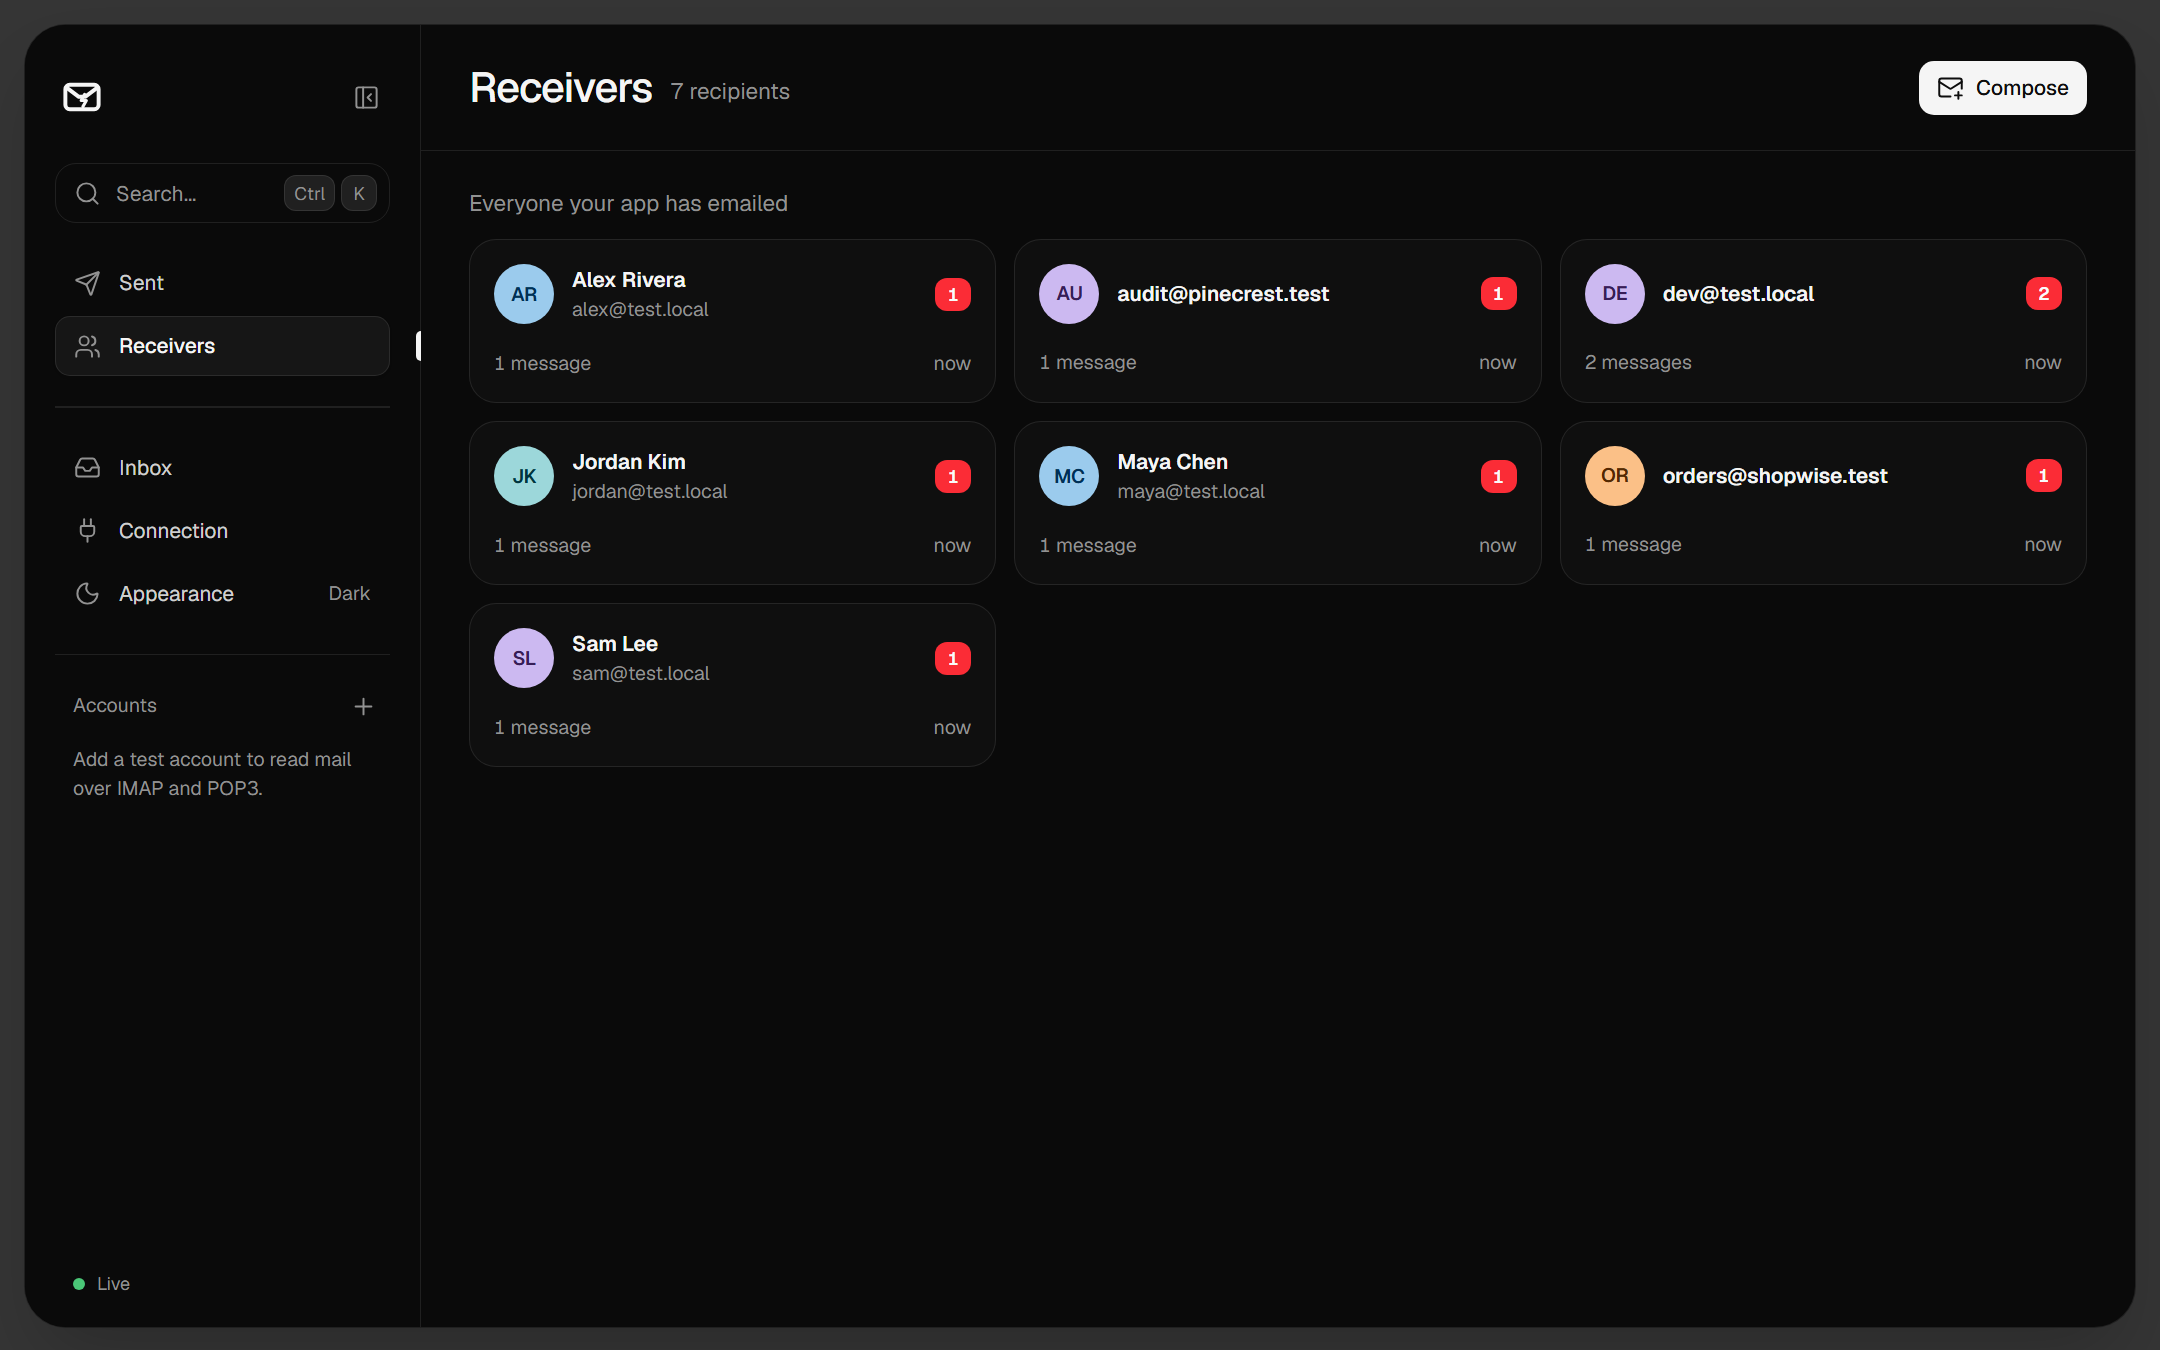
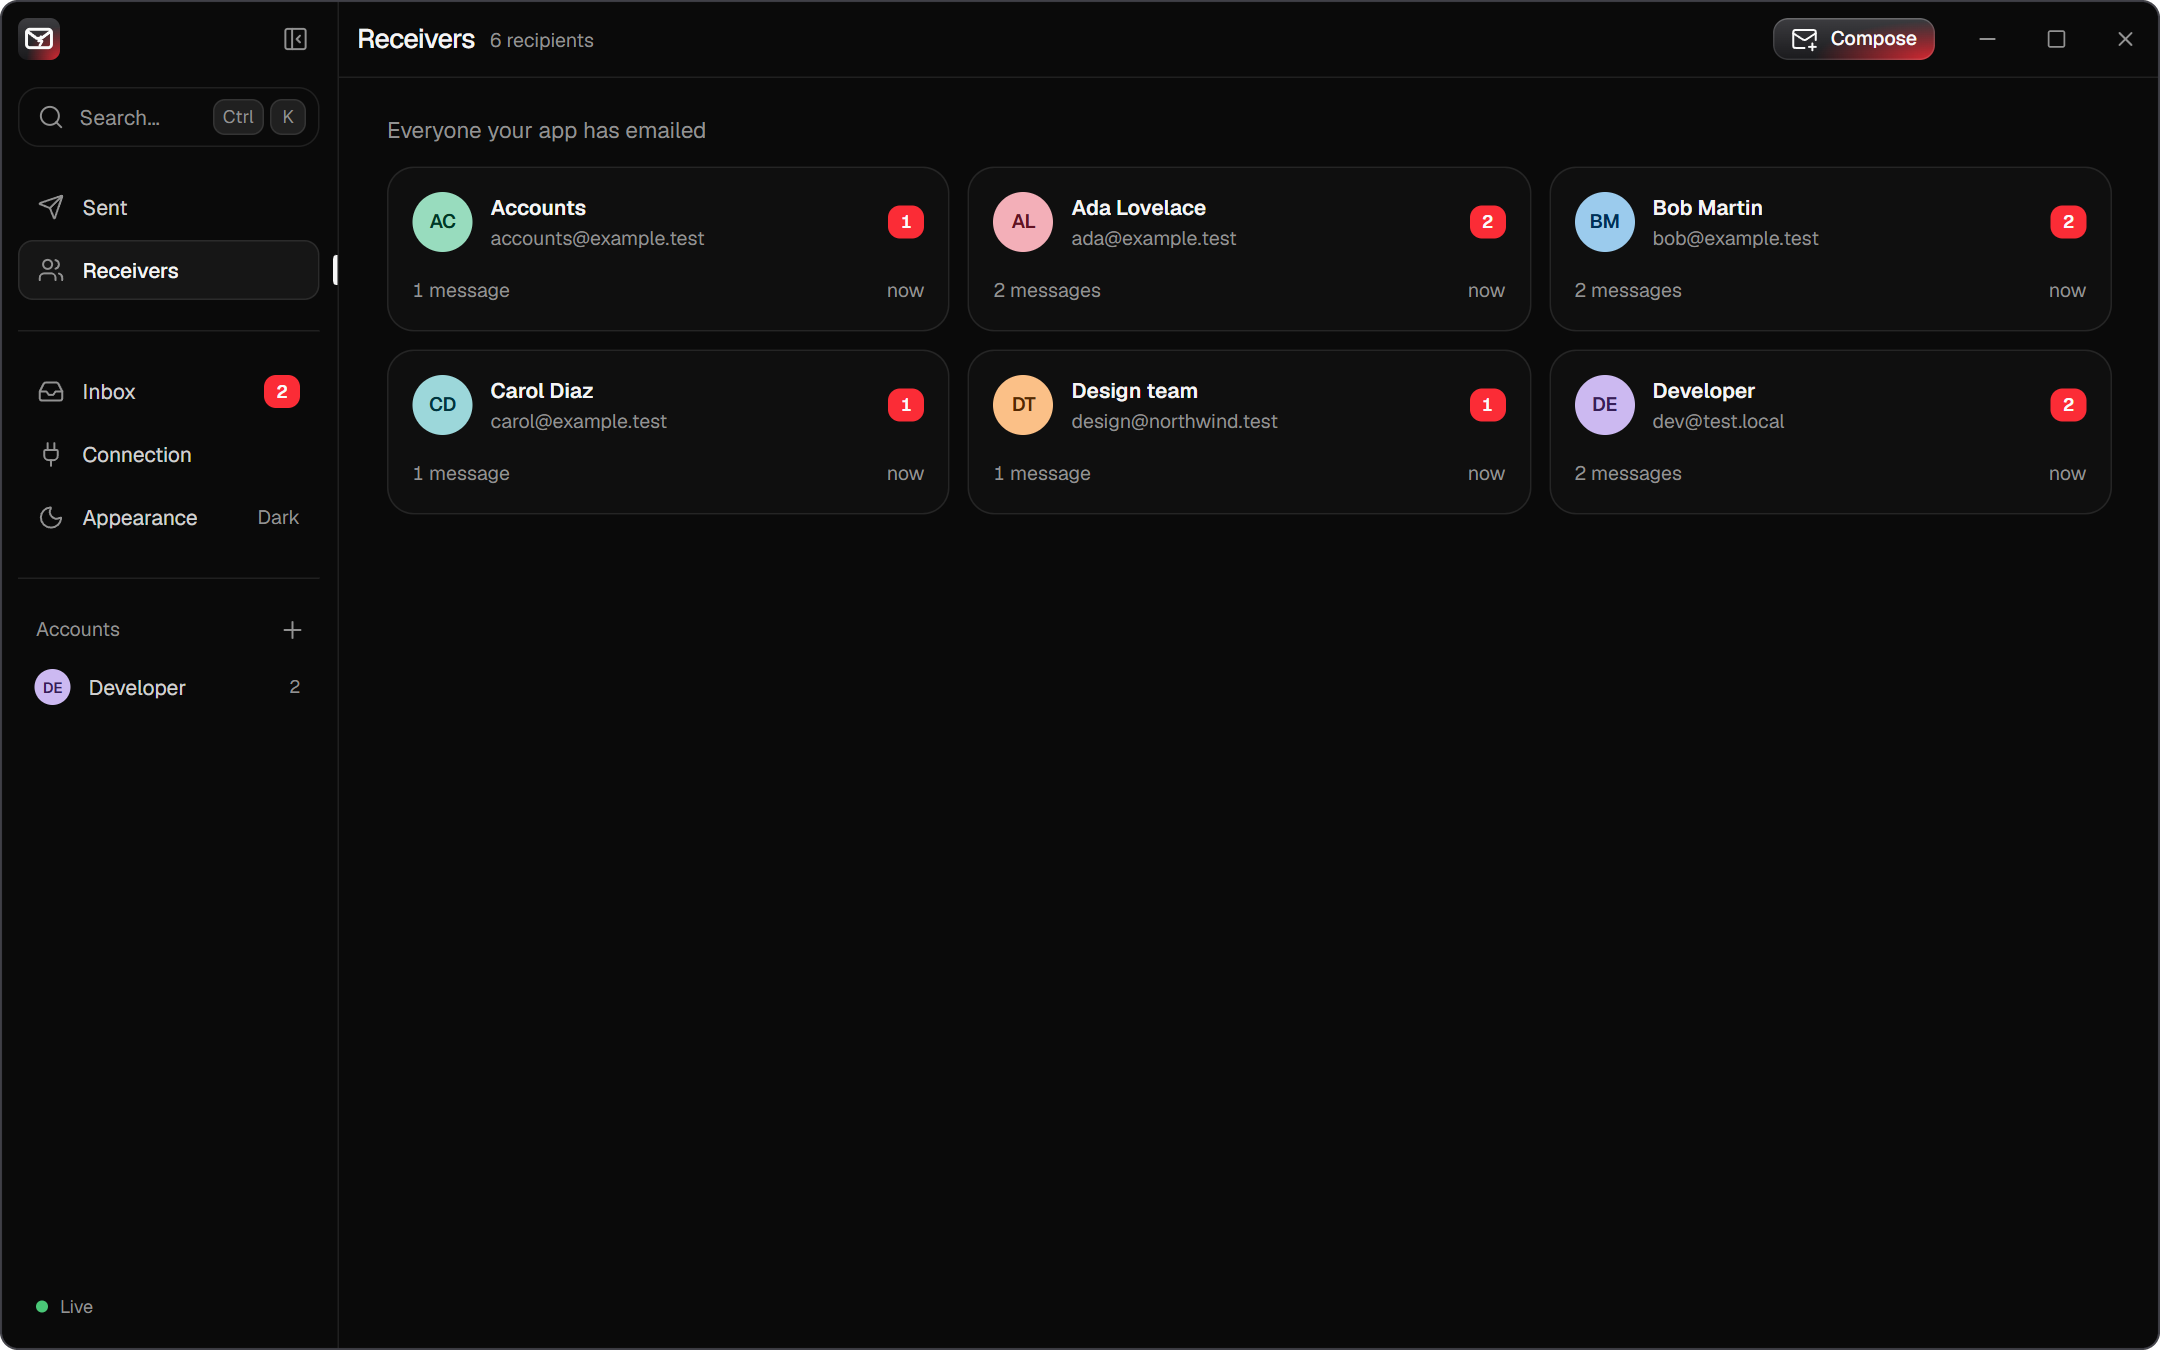
Rewrite the README around the desktop app
Envry is now introduced as a desktop app for Windows, macOS and Linux,
with download links and install notes per platform first, and the
command-line server for CI and servers after it. New screenshots show the
app in dark and light themes, Receivers, Compose and Connection.

diff --git a/README.md b/README.md
@@ -1,38 +1,60 @@
-# Envry
+<p align="center">
+  <img src="desktop/src-tauri/icons/128x128.png" width="96" height="96" alt="Envry app icon">
+</p>
 
-Envry is a local email testing server. It captures every email your application sends over SMTP, gives each recipient a mailbox, and serves those mailboxes back over POP3, IMAP, a REST API and a web UI. Nothing is ever relayed to the internet.
+<h1 align="center">Envry</h1>
 
-![Envry's Sent view with an HTML email open in the reader](docs/images/sent.png)
+<p align="center">
+  A desktop app for testing email locally, on Windows, macOS and Linux.<br>
+  It catches every email your app sends, gives each recipient a mailbox, and serves them back over IMAP, POP3 and a REST API.<br>
+  Nothing is ever delivered to the internet.
+</p>
 
-> **Status:** early development; expect breaking changes before 1.0. SMTP capture, POP3, IMAP (all with optional TLS), the web UI, the REST API, message checks and failure simulation work today.
+<p align="center">
+  <a href="https://github.com/arifurrahmanns/envry/releases/latest/download/Envry-setup-windows-x64.exe"><b>Windows</b></a> ·
+  <a href="https://github.com/arifurrahmanns/envry/releases/latest/download/Envry-macos-universal.dmg"><b>macOS</b></a> ·
+  <a href="https://github.com/arifurrahmanns/envry/releases/latest/download/Envry-linux-x86_64.AppImage"><b>Linux</b></a> ·
+  <a href="https://github.com/arifurrahmanns/envry/releases/latest">All downloads</a>
+</p>
+
+![Envry on Windows: the Sent list with an HTML email open in the reader](docs/images/app-dark.png)
+
+> **Status:** early development; expect breaking changes before 1.0. SMTP capture, POP3, IMAP (all with optional TLS), the desktop app, the REST API, message checks and failure simulation work today.
 
 ## Features
 
+- **A real desktop app.** Envry lives in the tray (the menu bar on macOS) with a Live/Offline status and a count of new mail, shows a notification when mail arrives, and can start at login. Closing the window keeps it catching mail.
 - **SMTP capture** on port 1025. Any username and password are accepted.
-- **A mailbox per recipient**, created automatically, including BCC recipients.
+- **A mailbox per recipient**, created automatically, including Bcc recipients.
 - **POP3 and IMAP** access to every mailbox, so you can test code that receives mail.
-- **Web UI** with three views: Sent, Receivers and Inbox.
-- **REST API and live events** so automated tests can wait for and assert on emails.
+- **A mail-client interface**: Sent, Receivers and Inbox views, a reader with preview, text, source and header views, resizable panes, a composer for test emails, and light and dark themes that follow your system.
+- **Clear port conflicts.** If Mailpit or another Envry already uses a port, Envry names the program holding it and can move to other ports in one click.
 - **Message checks** for a missing plain-text part, images without alt text, Gmail clipping, broken links and spam-prone headers.
 - **Failure simulation** to test how your application handles rejected recipients, temporary errors and slow servers.
-- **`envry send`** to fire a test email from the command line.
-- **One binary** with the UI embedded; no external services.
+- **REST API and live events** so automated tests can wait for and assert on emails.
+- **A headless `envry` command** with the same server, for CI, containers and servers.
 
-![Receivers view: one card per recipient with unread counts](docs/images/receivers.png)
+## Download and install
 
-## Installation
-
-**Desktop app** (Windows, macOS and Linux)
+### Desktop app
 
 | System | Download |
 | --- | --- |
-| Windows 10 and 11 | [Envry-setup-windows-x64.exe](https://github.com/arifurrahmanns/envry/releases/latest/download/Envry-setup-windows-x64.exe) |
+| Windows 10 and 11 (x64) | [Envry-setup-windows-x64.exe](https://github.com/arifurrahmanns/envry/releases/latest/download/Envry-setup-windows-x64.exe) |
 | macOS 11 or later (Apple silicon and Intel) | [Envry-macos-universal.dmg](https://github.com/arifurrahmanns/envry/releases/latest/download/Envry-macos-universal.dmg) |
-| Linux | [Envry-linux-x86_64.AppImage](https://github.com/arifurrahmanns/envry/releases/latest/download/Envry-linux-x86_64.AppImage) or [envry-desktop_amd64.deb](https://github.com/arifurrahmanns/envry/releases/latest/download/envry-desktop_amd64.deb) |
+| Linux (x86-64) | [Envry-linux-x86_64.AppImage](https://github.com/arifurrahmanns/envry/releases/latest/download/Envry-linux-x86_64.AppImage) or [envry-desktop_amd64.deb](https://github.com/arifurrahmanns/envry/releases/latest/download/envry-desktop_amd64.deb) |
 
-The app runs Envry in the background and shows the web UI in its own window. Its tray (menu-bar) icon shows whether Envry is live and how much mail arrived since you last looked; new mail raises a notification, and Envry can start at login. Closing the window keeps Envry catching mail; choose **Quit Envry** in the tray menu to stop it. If a port is taken, for example by Mailpit, which uses the same defaults, the app lists the busy ports and what holds them, and can move Envry to other ports. The app and the `envry` command share one database, `~/.envry/envry.db`. On Windows the installer needs no administrator rights, and Envry appears under *Settings › Apps*, where you can uninstall it.
+- **Windows:** run the installer. It needs no administrator rights and adds Envry to the Start menu and to *Settings › Apps*, where you can uninstall it.
+- **macOS:** open the disk image and drag Envry to Applications.
+- **Linux:** make the AppImage executable (`chmod +x Envry-linux-x86_64.AppImage`) and run it, or install the package with `sudo apt install ./envry-desktop_amd64.deb`. The tray icon needs a desktop with AppIndicator support (on GNOME, the AppIndicator extension).
 
 The installers are not code-signed yet, so the first launch shows a warning. On Windows, SmartScreen says "Windows protected your PC": choose **More info › Run anyway**. On macOS, right-click Envry in Applications and choose **Open**, or run `xattr -dr com.apple.quarantine /Applications/Envry.app`.
+
+Envry keeps mail in `~/.envry/envry.db`, shared with the `envry` command.
+
+### Command-line server
+
+For CI, containers and servers, the same server runs as a single `envry` binary, with the interface at <http://localhost:8025>.
 
 **macOS and Linux**
 
@@ -65,30 +87,44 @@ scoop install envry
 
 **Manual download**: archives for Linux, macOS and Windows on amd64 and arm64 are on the [releases page](https://github.com/arifurrahmanns/envry/releases). Each contains a single `envry` binary.
 
-**From source** (requires Go 1.25+, Node.js 20+ and GNU Make): run `make build`; the binary is written to `bin/envry`.
+**From source** (requires Go 1.25+, Node.js 20+ and GNU Make): run `make build`; the binary is written to `bin/envry`. See [Development](#development) for building the desktop app.
 
 ## Quick start
 
-```bash
-envry
-```
-
-Then open <http://localhost:8025> and point your application at `localhost:1025`.
-
-On Windows you can also start Envry from the Start menu or by double-clicking `envry.exe`. It runs in its own window, lists its addresses and opens the web UI in your browser; close the window to stop it. If a port is taken, for example by Mailpit, which uses the same defaults, the window stays open and says which one.
+Open Envry and point your application's mailer at `localhost:1025`. Mail shows up in the app the moment it is sent. The **Connection** page lists every address and port, with ready-made settings for Node.js, Laravel, Python and Django.
 
 | Service | Default port |
 | --- | --- |
 | SMTP | 1025 |
 | POP3 | 1110 |
 | IMAP | 1143 |
-| Web UI and API | 8025 |
+| Interface and API | 8025 |
+
+With the command-line server, run `envry` and open <http://localhost:8025>.
+
+## A quick tour
+
+Envry follows your system's light or dark theme; you can also pick one under **Appearance**.
+
+![Envry in the light theme](docs/images/app-light.png)
+
+**Receivers** has a card for everyone your app emailed, showing what each person actually got, Bcc copies included:
+
+![Receivers: one card per recipient with unread counts](docs/images/receivers.png)
+
+**Compose** sends a test email through Envry's own SMTP server, to check a mail client setup or a template:
+
+![Composing a test email with recipient chips](docs/images/compose.png)
+
+**Connection** shows the server settings for your app and for mail clients, each ready to copy:
+
+![Connection page with SMTP, IMAP and POP3 settings](docs/images/connection.png)
 
 ## Reading mail over IMAP
 
 Connect any mail client (Thunderbird, Apple Mail, Outlook) or library to the IMAP port with a mailbox address as the username. Every mailbox has `INBOX`, `Sent`, `Drafts` and `Trash`; clients can create, rename and delete their own folders too.
 
-- Changes show up everywhere at once: mail captured over SMTP appears in an idling client within milliseconds, and reading, flagging or deleting a message in the client updates the web UI live (and the other way round).
+- Changes show up everywhere at once: mail captured over SMTP appears in an idling client within milliseconds, and reading, flagging or deleting a message in the client updates Envry live (and the other way round).
 - When an application authenticates over SMTP as an account, a copy of what it sends is filed in that account's `Sent` folder.
 - Supported: IMAP4rev1 with `IDLE`, `MOVE`, `UIDPLUS`, `NAMESPACE`, `SPECIAL-USE`, `CHILDREN`, `LIST-EXTENDED`, `LIST-STATUS`, `STATUS=SIZE`, `ESEARCH`, `SEARCHRES`, `UNSELECT` and `APPENDLIMIT`.
 - `SEARCH` matches substrings case-insensitively in decoded headers and text parts, so partial words work.
@@ -103,20 +139,20 @@ envry --tls
 
 - **STARTTLS** is offered on the standard SMTP, IMAP and POP3 (`STLS`) ports.
 - **Implicit TLS** is served on SMTPS `1465`, IMAPS `1993` and POP3S `1995` (`--smtps`, `--imaps`, `--pop3s` change them).
-- Without `--tls-cert` and `--tls-key`, Envry generates a self-signed certificate for `localhost`, `127.0.0.1` and `::1` and keeps it in a `tls` folder next to the database, so a mail client only has to accept it once. It is renewed automatically before it expires. The SHA-256 fingerprint is logged at startup and shown in the web UI's connection settings.
+- Without `--tls-cert` and `--tls-key`, Envry generates a self-signed certificate for `localhost`, `127.0.0.1` and `::1` and keeps it in a `tls` folder next to the database, so a mail client only has to accept it once. It is renewed automatically before it expires. The SHA-256 fingerprint is logged at startup and shown on the Connection page.
 - Authentication still works without TLS, so the same accounts can be used either way.
 
 ## Reading mail over POP3
 
 Log in to the POP3 port with a mailbox address as the username, for example `dev@test.local`. Any password is accepted unless `--strict-auth` is set, in which case the address must be an account and the password must match. The maildrop is that mailbox's INBOX, oldest message first.
 
-- `RETR` marks the message as read in the web UI; `TOP` does not.
+- `RETR` marks the message as read in Envry; `TOP` does not.
 - `DELE` removes a message from that mailbox only when the session ends with `QUIT`. The message stays in Sent and in other recipients' mailboxes.
 - Supported commands: `USER`, `PASS`, `APOP`, `STAT`, `LIST`, `UIDL`, `RETR`, `TOP`, `DELE`, `NOOP`, `RSET`, `QUIT` and `CAPA`.
 
 ## Sending a test email
 
-`envry send` delivers a message to a running Envry over SMTP, which is handy for checking a mail client setup or the web UI without writing code:
+`envry send` delivers a message to a running Envry over SMTP, which is handy for checking a mail client setup or a CI job without writing code:
 
 ```bash
 envry send --to dev@test.local --subject "Hello"
@@ -145,7 +181,7 @@ The reader's **Checks** section reviews every message for problems that affect h
 
 ## Failure simulation
 
-Start Envry with these flags to see how your application copes when mail delivery goes wrong:
+Start the command-line server with these flags to see how your application copes when mail delivery goes wrong:
 
 ```bash
 envry --smtp-reject-rcpt "bounce@test.local" --smtp-reject-rcpt "*@blocked.test"
@@ -156,7 +192,7 @@ envry --smtp-reject-rate 20 --smtp-latency 3s
 - `--smtp-reject-rate` refuses that percentage of messages with `451 4.3.0` after `DATA`; nothing is stored.
 - `--smtp-latency` waits before answering `DATA`, like a slow or overloaded mail server.
 
-The web UI's Connection dialog shows which simulations are active.
+The Connection page shows which simulations are active.
 
 ## Using Envry in automated tests
 
@@ -235,7 +271,7 @@ Request bodies must be `application/json`, and the WebSocket accepts same-origin
 
 ## Configuration
 
-Every flag has a matching environment variable. Flags take precedence over environment variables.
+These flags configure the command-line server. Every flag has a matching environment variable, and flags take precedence over environment variables. In the desktop app, change the ports on the page it shows when Envry is stopped or a port is taken.
 
 | Flag | Environment variable | Default |
 | --- | --- | --- |
@@ -263,8 +299,8 @@ Run `envry --help` for the full list of commands and flags.
 
 | Command | Description |
 | --- | --- |
-| `make dev` | Go server with hot reload plus the Vite dev server at <http://localhost:5173> |
-| `make build` | Build the web UI, then a single binary in `bin/` with the UI embedded |
+| `make dev` | Go server with hot reload plus the Vite dev server for the interface at <http://localhost:5173> |
+| `make build` | Build the interface, then a single binary in `bin/` with it embedded |
 | `make test` | Go tests with the race detector, plus a TypeScript type check |
 | `make lint` | `go vet` and `oxlint` |
 | `make fmt` | Format Go code |
@@ -282,7 +318,7 @@ git tag v0.1.0
 git push origin v0.1.0
 ```
 
-The Release workflow runs the tests, then publishes the archives and `checksums.txt` to GitHub Releases, and builds the desktop installers on Windows, macOS and Linux and attaches them with `desktop-checksums.txt`. When the `TAP_GITHUB_TOKEN` secret is set (a token with write access to the `homebrew-tap` and `scoop-bucket` repositories), it also updates the Homebrew cask and the Scoop manifest. CI builds every archive from the same configuration on each push, without publishing, so release problems show up before tagging.
+The Release workflow runs the tests and publishes the command-line archives and `checksums.txt` to GitHub Releases, then builds the desktop installers on Windows, macOS and Linux and attaches them with `desktop-checksums.txt`. To build the installers without releasing, run the **Desktop** workflow by hand or open a pull request that touches `desktop/`. When the `TAP_GITHUB_TOKEN` secret is set (a token with write access to the `homebrew-tap` and `scoop-bucket` repositories), it also updates the Homebrew cask and the Scoop manifest. CI builds every archive from the same configuration on each push, without publishing, so release problems show up before tagging.
 
 ### Project layout
 
@@ -303,8 +339,8 @@ internal/
   tlsutil/          Certificates: user-supplied or generated self-signed
   store/            SQLite storage, migrations and queries
   version/          Build metadata
-  webui/            Embedded web UI with SPA fallback
-web/                React + TypeScript + Tailwind CSS + shadcn/ui
+  webui/            Embeds the interface, with SPA fallback
+web/                The interface: React + TypeScript + Tailwind CSS + shadcn/ui
 desktop/            Desktop app (Tauri 2): runs envry as a sidecar, tray, notifications
   scripts/          Builds the envry sidecar for the Tauri target
   src/              Status page shown while Envry starts, is stopped or hits a port conflict
